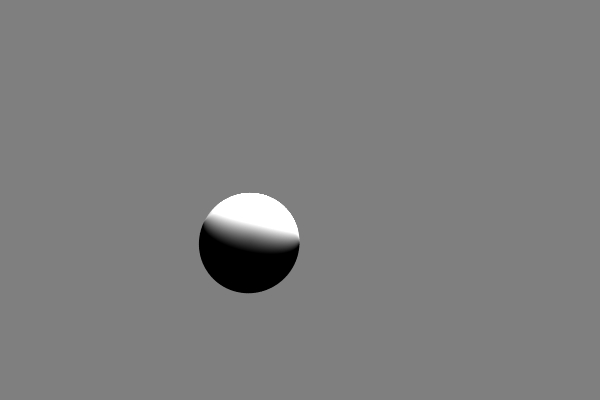
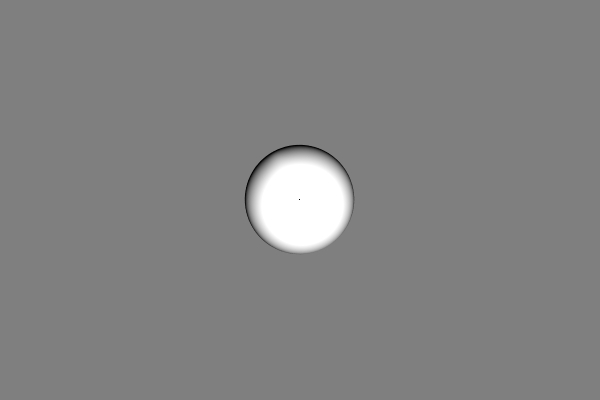
FinTp7

Changed region(s): [[0.33, 0.36, 0.6, 0.75]]

diff --git a/src/scene.cpp b/src/scene.cpp
@@ -4,8 +4,9 @@
 #include "objects/plane.hpp"
 #include "objects/triangle_mesh.hpp"
 #include "objects/implicit_sphere.hpp"
-#include "objects/implicit_cut_hollow_sphere.hpp"
 #include "objects/implicit_round_box.hpp"
+#include "objects/implicit_prism.hpp"
+#include "objects/implicit_capped_torus.hpp"
 #include <assimp/Importer.hpp>
 #include <assimp/postprocess.h>
 #include <assimp/scene.h>
@@ -219,17 +220,26 @@ namespace RT_ISICG
 		_addMaterial( new MatteMaterial( "GreyMatte", GREY, 0.6f ) );
 		_addMaterial( new MatteMaterial( "MagentaMatte", MAGENTA, 0.6f ) );
 
-		//_addObject( new ImplicitSphere( "Sphere", Vec3f( 1.f, 1.f, 1.f ), 1.f ) );
-		//_attachMaterialToObject( "WhiteMatte", "Sphere" );
+		_addObject( new ImplicitSphere( "Sphere", Vec3f( 1.f, 1.f, 1.f ), 1.f ) );
+		_attachMaterialToObject( "WhiteMatte", "Sphere" );
+		_addLight( new PointLight( Vec3f( 1.5f, 2.f, -3.f ), WHITE, 60.f ) );
 
-		//_addObject( new ImplicitCutHollowSphere( "CutSphere", Vec3f( 0.f, 0.5f, 0.f ), 10.f, 0.2f, 0.01f ) );
-		//_attachMaterialToObject( "WhiteMatte", "CutSphere" );
 
-		_addObject( new ImplicitRoundBox( "Box", Vec3f( 1.f, 1.f, 1.f ), Vec3f(1.f,1.f,1.f), 1.f ) );
-		_attachMaterialToObject( "WhiteMatte", "Box" );
 
-		_addLight( new PointLight( Vec3f( 0.f, 2.f, 0.f ), WHITE, 100.f ) );
+		//_addObject( new ImplicitRoundBox( "Box", Vec3f( 1.f, 1.f, 1.f ), Vec3f(1.f,0.5f,1.f), 0.2f ) );
+		//_attachMaterialToObject( "WhiteMatte", "Box" );
+		//_addLight( new PointLight( Vec3f( 1.f, 3.f, -3.f ), WHITE, 60.f ) );
 
+		//_addObject( new ImplicitPrism("Prism",Vec3f(1.f,1.f,1.f), Vec2f(1.f,1.f) ));
+		//_attachMaterialToObject( "WhiteMatte", "Prism" );
+		//_addLight( new PointLight( Vec3f(4.f, 1.f, -5.f ), WHITE, 100.f ) );
+
+		//_addObject( new ImplicitCapedTorus( "Torus", Vec3f( 1.f, 1.f, 1.f ), Vec2f( sin(2.5), cos(2.5) ), 0.4f, 0.2f ) );
+		//_attachMaterialToObject( "WhiteMatte", "Torus" );
+		//_addLight( new PointLight( Vec3f( 1.f, 1.f, -4.f ), WHITE, 100.f ) );
+		
+		
+		
 	}
 
 	void Scene::loadFileTriangleMesh( const std::string & p_name, const std::string & p_path )

diff --git a/src/objects/implicit_capped_torus.hpp b/src/objects/implicit_capped_torus.hpp
@@ -1,0 +1,45 @@
+#ifndef __RT_ISICG_IMPLICIT_CAPED_TORUS__
+#define __RT_ISICG_IMPLICIT_CAPED_TORUS__
+
+#include "implicit_surface.hpp"
+
+namespace RT_ISICG
+{
+	class ImplicitCapedTorus : public ImplicitSurface
+	{
+	  public:
+		ImplicitCapedTorus()		  = delete;
+		virtual ~ImplicitCapedTorus() = default;
+
+		ImplicitCapedTorus( const std::string & p_name,
+							const Vec3f &		p_center,
+							const Vec2f &		p_sc,
+							const float &		p_ra,
+							const float &		p_rb )
+			: ImplicitSurface( p_name ), _center( p_center ), _sc( p_sc ), _ra( p_ra ), _rb( p_rb )
+
+		{
+		}
+
+	  private:
+		// Signed Distance Function
+		virtual float _sdf( const Vec3f & p_point ) const override
+		{
+			Vec3f point = p_point - _center;
+			point.x		= abs( point.x );
+			float k		= ( _sc.y * point.x > _sc.x * point.y ) ? glm::dot( Vec2f( point.x, point.y ), _sc )
+																: glm::length( Vec2f( point.x, point.y ) );
+			return glm::sqrt( glm::dot( point, point ) + _ra * _ra - (2.f * _ra * k) ) - _rb;
+		}
+
+	  private:
+		const Vec3f _center;
+		const Vec2f _sc;
+		const float _ra;
+		const float _rb;
+	};
+
+} // namespace RT_ISICG
+
+#endif // __RT_ISICG_IMPLICIT_SURFACE__
+#pragma once

diff --git a/src/objects/implicit_surface.hpp b/src/objects/implicit_surface.hpp
@@ -31,10 +31,12 @@ namespace RT_ISICG
 		{
 			
 			//https://fr.wikipedia.org/wiki/Diff%C3%A9rence_finie
-			//pour calculer le gradient a un point on doit utiliser les dervive partiels par difference finie
-			float dx = (_sdf( Vec3f( p_point.x, p_point.y, p_point.z ) + Vec3f( _minDistance, 0.f, 0.f ) ) - _sdf(Vec3f(p_point.x, p_point.y, p_point.z))) /_minDistance;
-			float dy = (_sdf( Vec3f( p_point.x, p_point.y, p_point.z ) + Vec3f( 0.f, _minDistance, 0.f ) ) - _sdf(Vec3f(p_point.x, p_point.y, p_point.z))) /_minDistance;
-			float dz = (_sdf( Vec3f( p_point.x, p_point.y, p_point.z ) + Vec3f( 0.f, 0.f, _minDistance ) ) - _sdf(Vec3f(p_point.x, p_point.y, p_point.z))) /_minDistance;
+			// on doit utiliser les derive partiels par difference finie
+			float dx = ( _sdf( p_point + Vec3f( _minDistance, 0.f, 0.f ) )
+							  - _sdf( p_point ) )
+							/ _minDistance;
+			float dy = (_sdf( p_point + Vec3f( 0.f, _minDistance, 0.f ) ) - _sdf(p_point)) /_minDistance;
+			float dz = (_sdf( p_point + Vec3f( 0.f, 0.f, _minDistance ) ) - _sdf(p_point)) /_minDistance;
 			return glm::normalize(Vec3f(dx,dy,dz));
 		}
 

diff --git a/src/main.cpp b/src/main.cpp
@@ -37,9 +37,21 @@ namespace RT_ISICG
 		//Vec3f p_position = Vec3f( 0.f, 2.f, -6.f );
 		//Vec3f p_lookat	 = Vec3f( 0.f, 0.f, 100.f );
 
-		//Tp7
-		Vec3f p_position = Vec3f(1.f , 10.f, 0.f );
+		//Tp7 Sphere
+		Vec3f p_position = Vec3f( 2.f, 3.f, -5.f );
 		Vec3f p_lookat	 = Vec3f( 1.f, 1.f, 1.f );
+
+		//Tp7 cube
+		//Vec3f p_position = Vec3f(2.f , 3.f, -5.f );
+		//Vec3f p_lookat	 = Vec3f( 1.f, 1.f, 1.f );
+		
+		//Tp7 triangular prism
+		//Vec3f p_position = Vec3f( 2.f, 2.f, -3.f );
+		//Vec3f p_lookat	 = Vec3f( 1.f, 1.f, 1.f );
+
+		//Tp7 round cone
+		//Vec3f p_position = Vec3f( 1.5f, 1.5f, -2.f );
+		//Vec3f p_lookat	 = Vec3f( 1.f, 1.f, 1.f );
 
 		Vec3f p_up		 = Vec3f( 0, 1, 0 );
 		float fov		 = 60.f;
@@ -62,7 +74,7 @@ namespace RT_ISICG
 		renderer.setIntegrator( IntegratorType::WHITTED );
 		renderer.setBackgroundColor( GREY );
 		//Tp1 antialiasing
-		renderer.setNbPixelSamples( 64 );
+		renderer.setNbPixelSamples( 128 );
 		//Tp1 antialiasing
 		// Launch rendering.
 		std::cout << "Rendering..." << std::endl;

diff --git a/src/objects/implicit_prism.hpp b/src/objects/implicit_prism.hpp
@@ -1,0 +1,37 @@
+#ifndef __RT_ISICG_IMPLICIT_PRISM__
+#define __RT_ISICG_IMPLICIT_PRISM__
+
+#include "implicit_surface.hpp"
+
+namespace RT_ISICG
+{
+	class ImplicitPrism : public ImplicitSurface
+	{
+	  public:
+		ImplicitPrism()				= delete;
+		virtual ~ImplicitPrism() = default;
+
+		ImplicitPrism( const std::string & p_name, const Vec3f & p_center, const Vec2f & p_h )
+			: ImplicitSurface( p_name ), _center( p_center ), _h(p_h)
+
+		{
+		}
+
+	  private:
+		// Signed Distance Function
+		virtual float _sdf( const Vec3f & p_point ) const override
+		{
+			Vec3f point = p_point - _center;
+			Vec3f q		= abs( point );
+			return glm::max( q.z - _h.y, glm::max( q.x * 0.866025f + point.y * 0.5f, -point.y ) - _h.x * 0.5f );
+		}
+
+	  private:
+		const Vec3f _center;
+		const Vec2f _h;
+	};
+
+} // namespace RT_ISICG
+
+#endif // __RT_ISICG_IMPLICIT_SURFACE__
+#pragma once

diff --git a/src/objects/implicit_round_box.hpp b/src/objects/implicit_round_box.hpp
@@ -24,7 +24,8 @@ namespace RT_ISICG
 		// Signed Distance Function
 		virtual float _sdf( const Vec3f & p_point ) const override
 		{ 
-			Vec3f q = abs( p_point ) - _b + _rayon;
+			Vec3f point = p_point - _center;
+			Vec3f q		= abs( point ) - _b + _rayon;
 			return glm::length( max( q, 0.0f ) ) + glm::min( glm::max( q.x, glm::max( q.y, q.z ) ), 0.0f ) - _rayon;
 			
 		}
